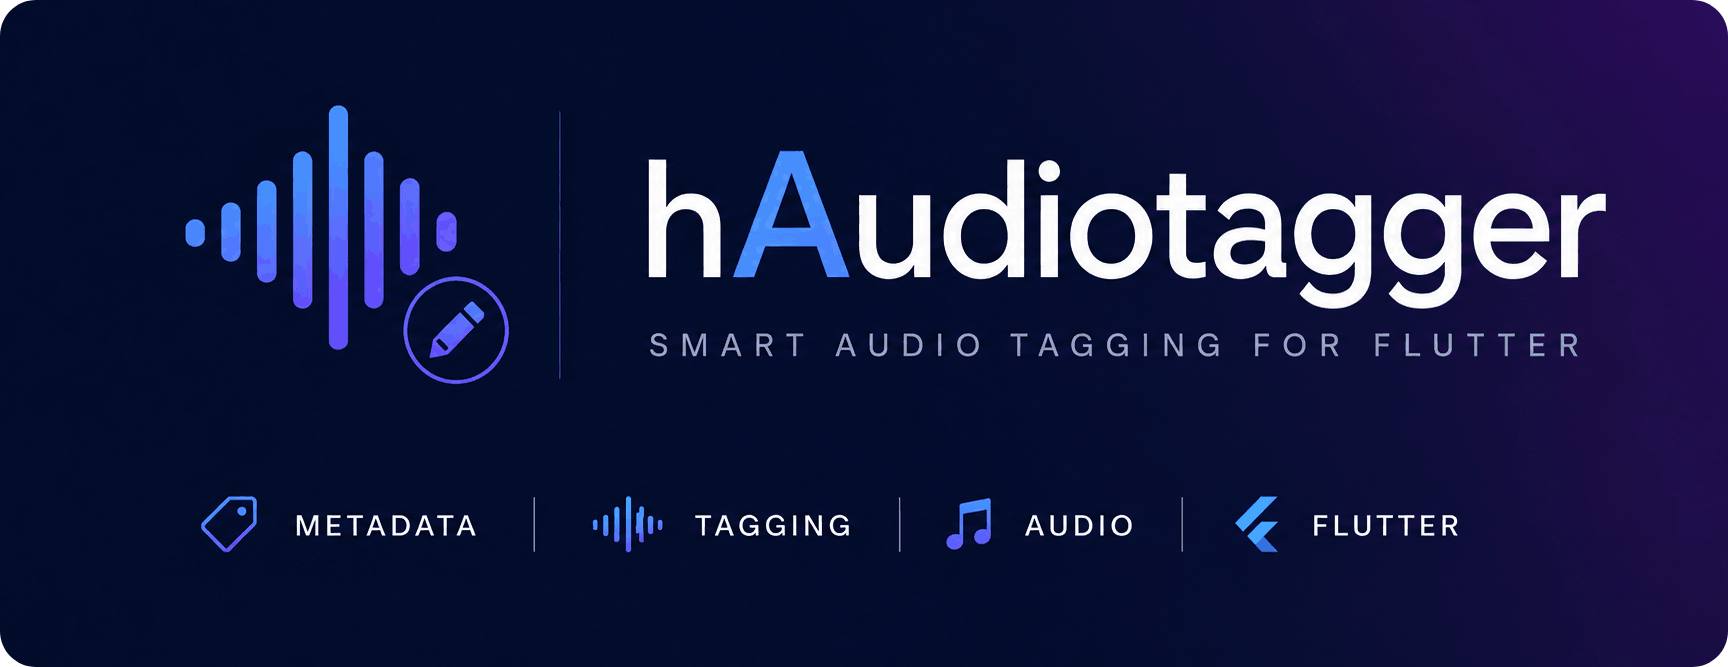
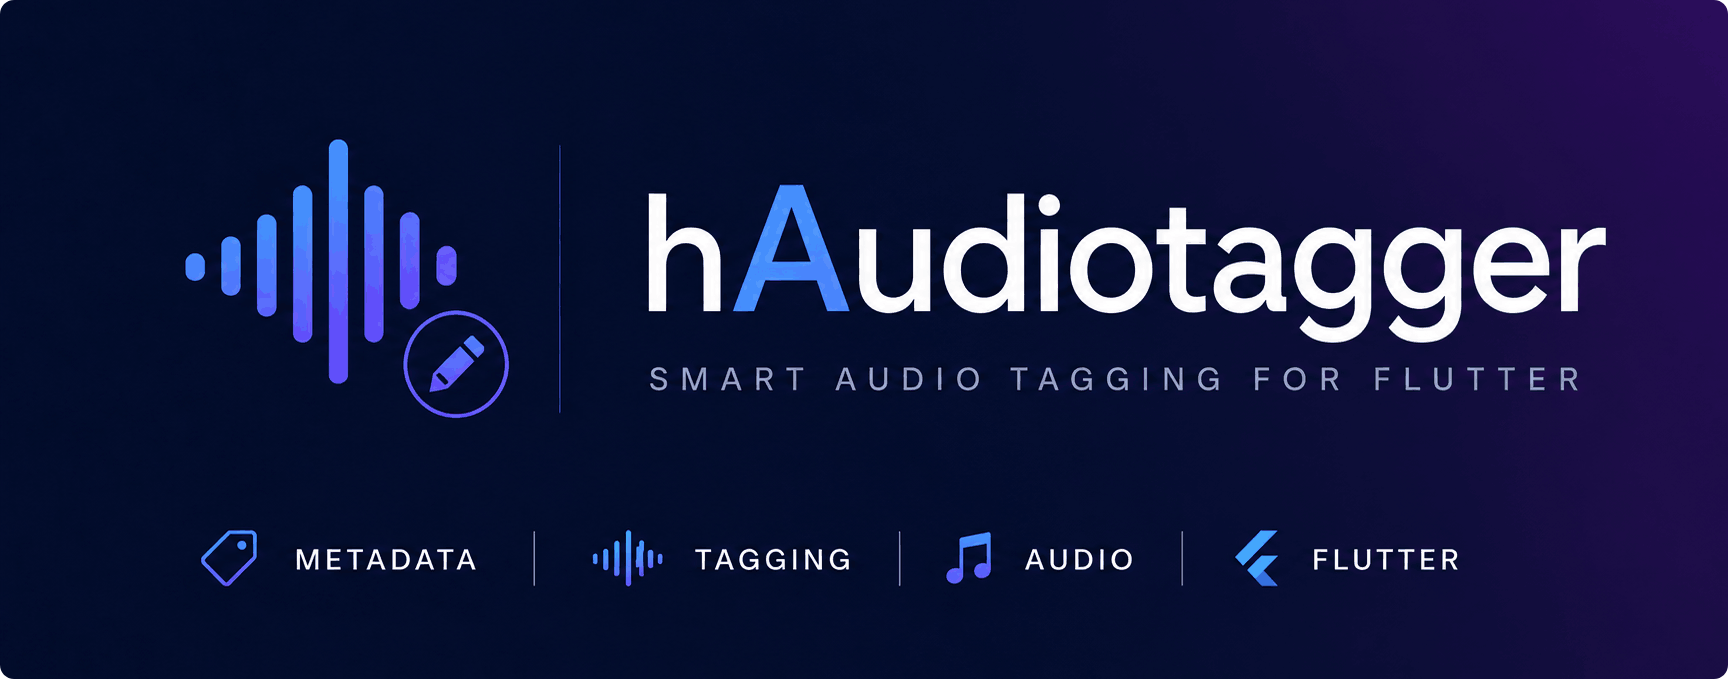
audit: README changed a bit to better

diff --git a/README.md b/README.md
@@ -1,14 +1,27 @@
-# hAudiotagger
+<p align="center">
+  <img src="haudiotagger/logo.png" alt="HAudioTagger Logo" width="140">
+</p>
 
-![Haudiotagger](https://raw.githubusercontent.com/Hirdaya-Shrestha/haudiotagger/main/haudiotagger/cover.png?)
+<h1 align="center">hAudiotagger</h1>
+
+<p align="center">
+  Powerful audio metadata editing for Flutter
+</p>
+
+**Disclaimer:** This project is not affiliated with, endorsed by, or officially connected to the Rust Foundation or Rust Project.   
+
+<br/>
 
 [![pub package](https://img.shields.io/pub/v/haudiotagger.svg)](https://pub.dev/packages/haudiotagger)
+[![build](https://github.com/Hirdaya-Shrestha/haudiotagger/actions/workflows/ci.yml/badge.svg)](https://github.com/Hirdaya-Shrestha/haudiotagger/actions)
 [![License: MIT](https://img.shields.io/badge/License-MIT-blue.svg)](https://opensource.org/licenses/MIT)
 [![Flutter](https://img.shields.io/badge/Flutter-%3E%3D3.0.0-blue.svg)](https://flutter.dev)
 
 Read and write audio metadata in Flutter — powered by Rust. Fast, reliable, and supports every major format.
 
 Built on [lofty](https://github.com/Serial-ATA/lofty-rs).
+
+![Haudiotagger](/haudiotagger/cover.png)
 
 ## Features
 
@@ -223,3 +236,19 @@ Add the WASM files and JS glue to your `web/` directory (see [Web Setup](#web-se
 ## License
 
 MIT License - see [LICENSE](LICENSE) for details.
+
+## ❤ Support
+
+If HAudioTagger helps you build something cool, consider:
+
+- ⭐ Starring the repository
+- 🐛 Reporting bugs
+- 💡 Suggesting improvements
+- 🤝 Contributing code
+- 📦 Sharing the package with other Flutter developers
+
+Every bit of support helps keep the project moving forward.
+
+<p align="center">
+Made with ❤ and Rust 🦀.
+</p>
